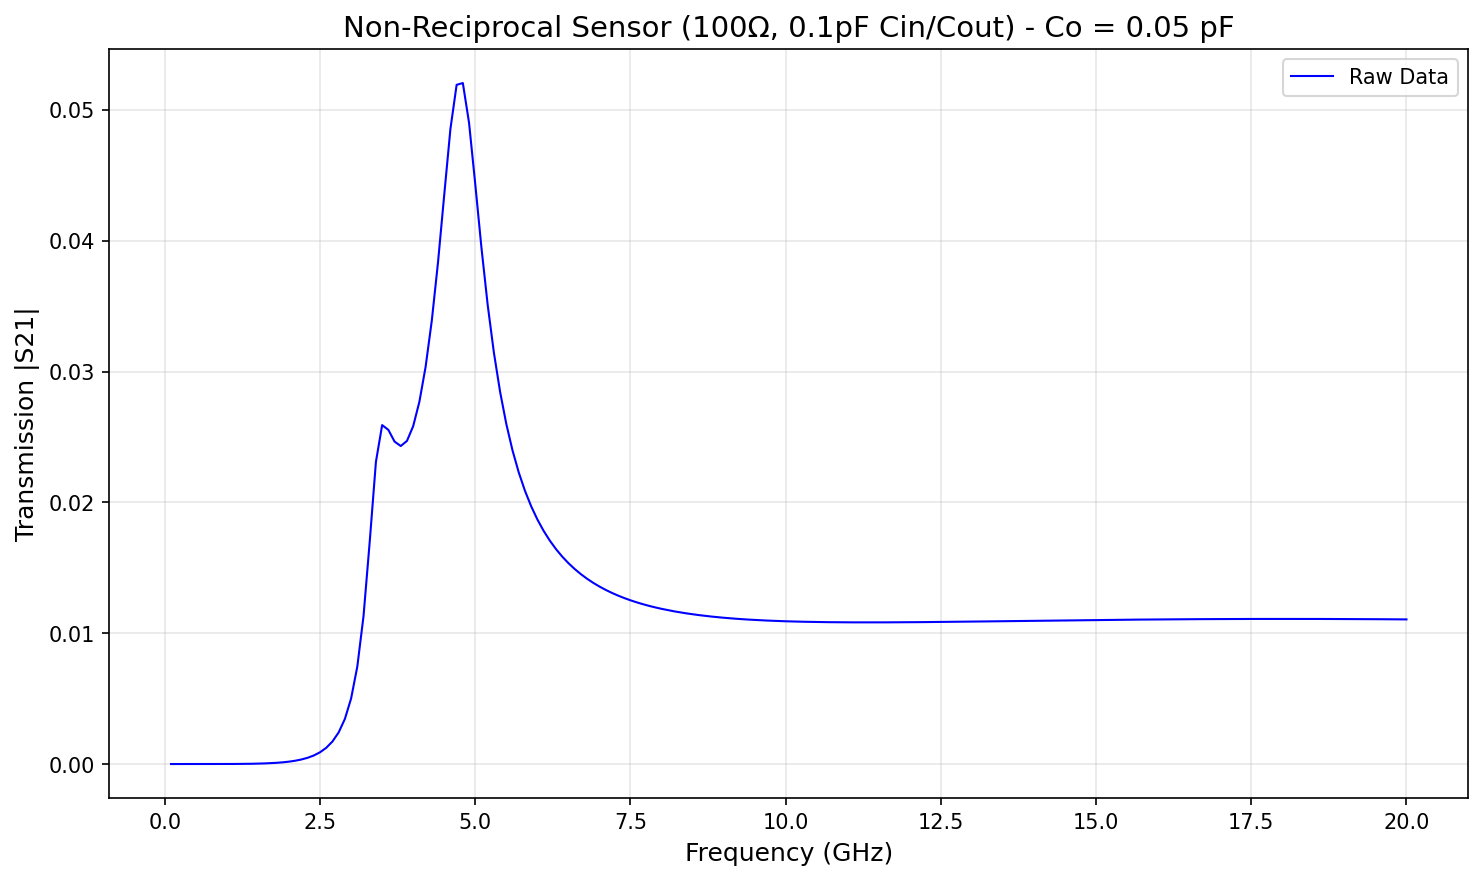
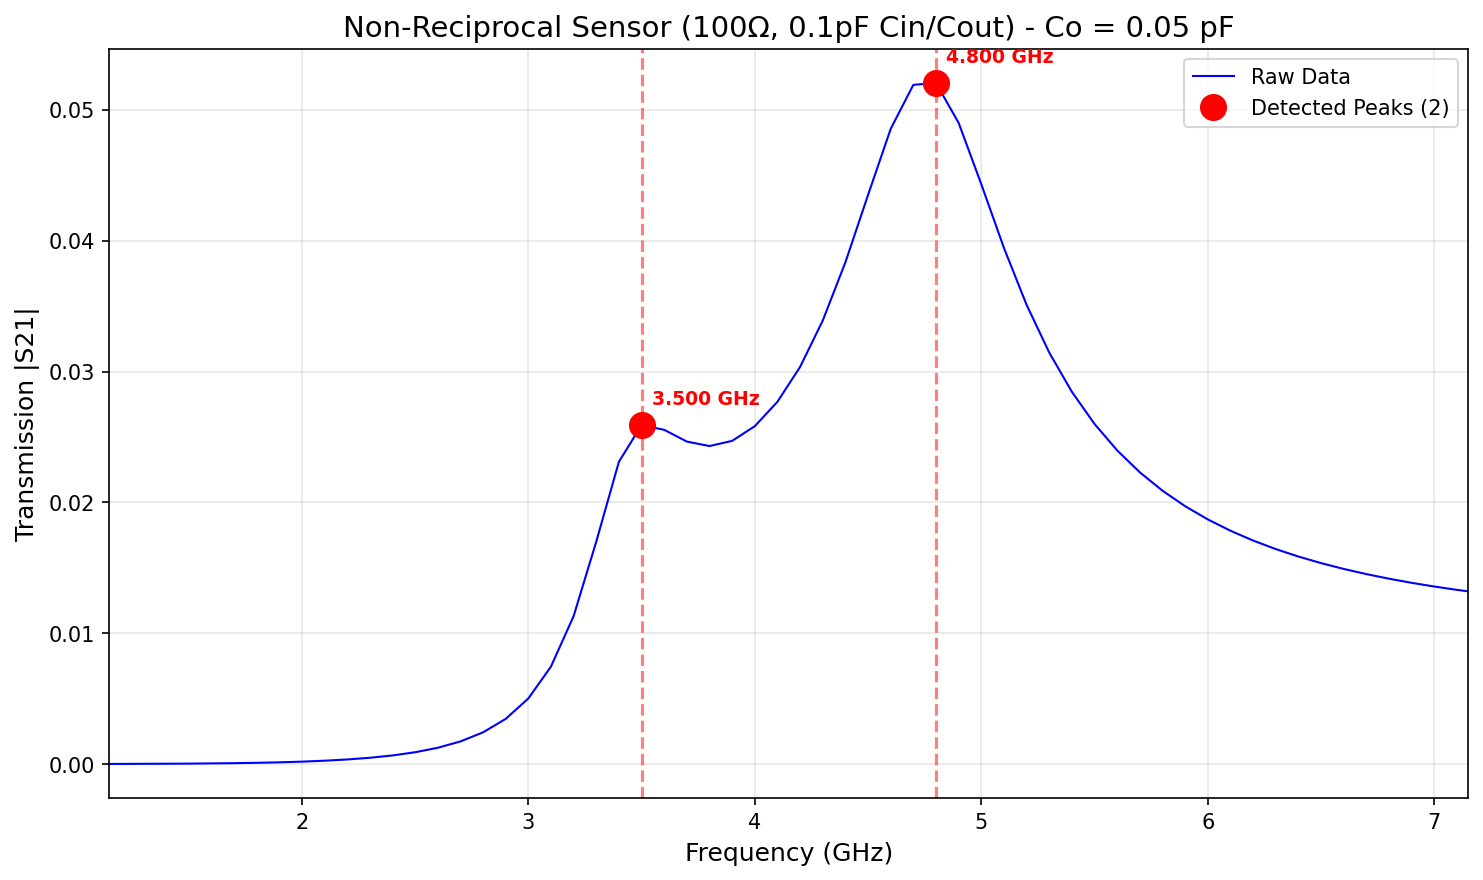
Adaptive peak detection distance for varying frequency resolutions
The distance parameter in find_peaks was hardcoded (20-30 samples), which
assumed ~1991 data points. The new 100ohm sensor has only 200 points, making
distance=20 require 2 GHz separation and distance=30 require 3 GHz — far too
restrictive, causing 54/101 Co values to fail peak detection.

Now computes distance dynamically from the actual frequency step size,
targeting ~0.2-0.3 GHz physical separation regardless of grid density.
Result: 100ohm sensor goes from 54 failures to 0 failures.

https://claude.ai/code/session_01SgRVjLYurBKPwG16aD4KZu

diff --git a/src/process_sensor_data.py b/src/process_sensor_data.py
@@ -118,6 +118,13 @@ def find_two_peaks_second_derivative(freq, transmission):
         Sorted list of two indices corresponding to detected features,
         or None if fewer than 2 features found
     """
+    # Step 0: Calculate the frequency resolution to set distance parameters adaptively
+    # The data may have different numbers of points (e.g., 1991 vs 200), so we
+    # compute how many samples correspond to a physical frequency separation
+    freq_step = (freq[-1] - freq[0]) / (len(freq) - 1)  # GHz per sample
+    # Minimum ~0.3 GHz separation between detected features
+    min_distance = max(2, int(0.3 / freq_step))
+
     # Step 1: Smooth the data using a Gaussian filter
     # sigma=3 provides moderate smoothing to reduce noise while preserving features
     # Without smoothing, the second derivative would be very noisy
@@ -139,8 +146,8 @@ def find_two_peaks_second_derivative(freq, transmission):
 
     # Use scipy's find_peaks with:
     # - prominence=0.0005: very low threshold to catch subtle features
-    # - distance=30: minimum ~0.3 GHz separation between detected features
-    d2_peaks, _ = find_peaks(d2_neg, prominence=0.0005, distance=30)
+    # - distance=min_distance: adaptive minimum separation between detected features
+    d2_peaks, _ = find_peaks(d2_neg, prominence=0.0005, distance=min_distance)
 
     # Step 5: Filter to the relevant frequency range (1-8 GHz)
     # The sensor resonances occur in this range; features outside are artifacts
@@ -164,7 +171,7 @@ def find_two_peaks_second_derivative(freq, transmission):
         # snapping each second-derivative feature to the nearest local maximum
         # if one exists within 0.5 GHz. For true shoulders (no nearby local max),
         # the position is left unchanged.
-        local_maxima, _ = find_peaks(trans_smooth, distance=20)
+        local_maxima, _ = find_peaks(trans_smooth, distance=min_distance)
 
         refined = list(result)
         for i in range(len(refined)):
@@ -217,14 +224,19 @@ def find_two_peaks(freq, transmission):
         Sorted list of two indices [idx1, idx2] where idx1 < idx2,
         or None if two peaks could not be found
     """
+    # Calculate adaptive distance parameter based on frequency resolution
+    # Ensures consistent physical separation (~0.2 GHz) regardless of grid density
+    freq_step = (freq[-1] - freq[0]) / (len(freq) - 1)  # GHz per sample
+    min_distance = max(2, int(0.2 / freq_step))
+
     # Stage 1: Try standard peak detection with decreasing prominence thresholds
     # Prominence measures how much a peak stands out from surrounding baseline
     for prominence in [0.1, 0.05, 0.01, 0.005, 0.001]:
         # find_peaks returns indices of local maxima meeting the criteria
-        # distance=20 means peaks must be at least 20 samples (~0.2 GHz) apart
+        # min_distance ensures peaks are at least ~0.2 GHz apart
         peaks, props = find_peaks(transmission,
                                    prominence=prominence,
-                                   distance=20)
+                                   distance=min_distance)
 
         # If we found at least 2 peaks, select the two tallest
         if len(peaks) >= 2:
